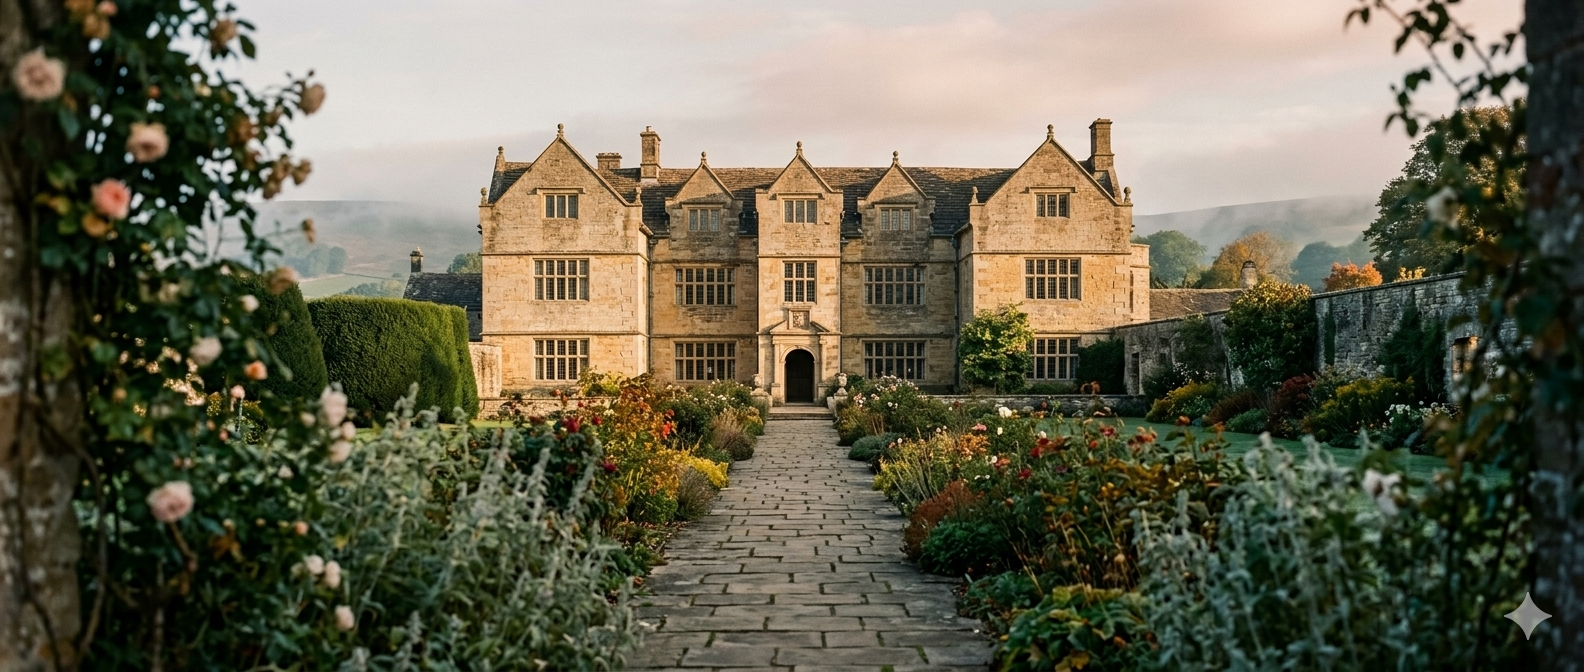
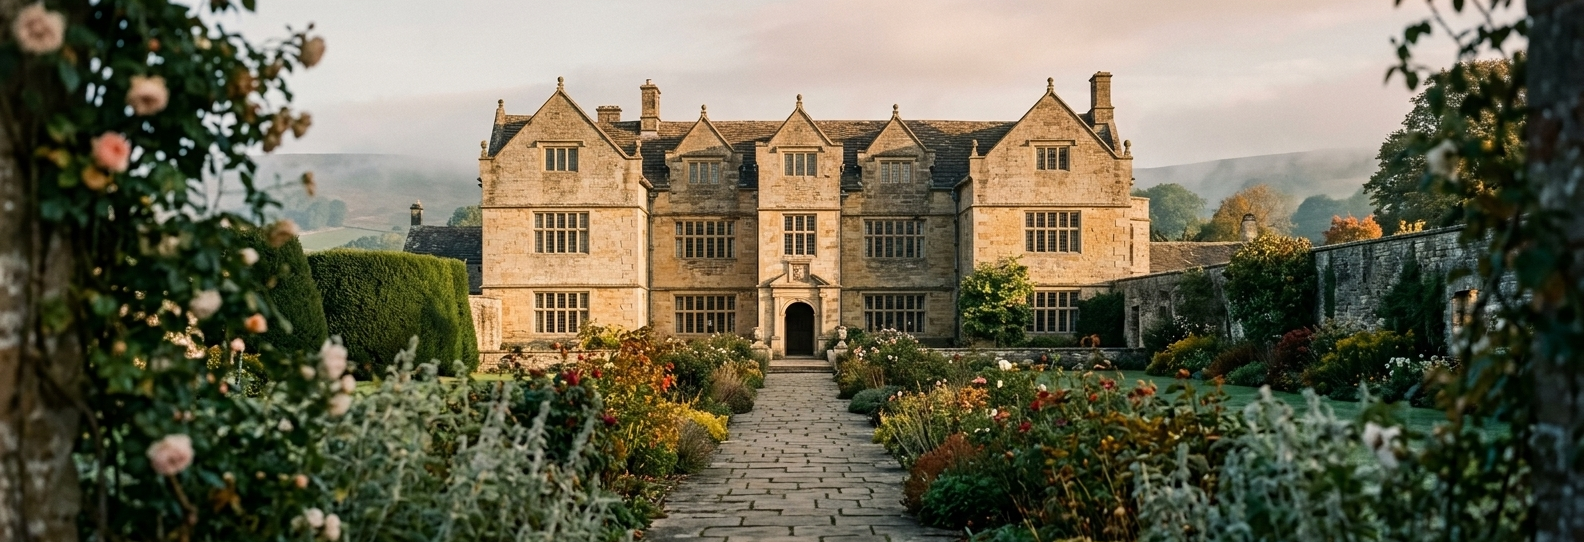
Add couple and barn hall images to home and details pages
Introduce a split layout pairing the welcome note with a portrait of
the couple, add the barn reception image to The Day, and recompress the
Eyam Hall photo.

diff --git a/index.html b/index.html
@@ -76,25 +76,35 @@
       <figcaption class="figure__caption">Eyam Hall &middot; Eyam, Derbyshire</figcaption>
     </figure>
 
-    <!-- Welcome note -->
+    <!-- Welcome note — portrait of the couple beside the welcome copy -->
     <section class="section reveal">
       <div class="container">
-        <div class="note">
-          <span class="eyebrow">Welcome</span>
-          <!-- TODO: replace welcome copy -->
-          <p class="note__lead">
-            We are so delighted to share our day with you.
-          </p>
-          <p>
-            After many happy years together, we can't wait to gather our
-            favourite people at Eyam Hall, in the heart of the Peak District,
-            for an unhurried spring celebration. The pages here hold everything
-            you'll need — the order of the day, how to find us, and a place to
-            let us know you're coming.
-          </p>
-          <div class="hero__actions">
-            <a class="btn" href="details.html">View Details</a>
-            <a class="btn btn--outline" href="rsvp.html">RSVP</a>
+        <div class="split">
+          <figure class="split__figure">
+            <img
+              class="split__img"
+              src="images/couple-at-eyam-hall.png"
+              alt="Rosie and Joe walking arm in arm through the Eyam Hall walled garden toward a rose-covered stone arch."
+              loading="lazy"
+            />
+          </figure>
+          <div class="note">
+            <span class="eyebrow">Welcome</span>
+            <!-- TODO: replace welcome copy -->
+            <p class="note__lead">
+              We are so delighted to share our day with you.
+            </p>
+            <p>
+              After many happy years together, we can't wait to gather our
+              favourite people at Eyam Hall, in the heart of the Peak District,
+              for an unhurried spring celebration. The pages here hold everything
+              you'll need — the order of the day, how to find us, and a place to
+              let us know you're coming.
+            </p>
+            <div class="hero__actions">
+              <a class="btn" href="details.html">View Details</a>
+              <a class="btn btn--outline" href="rsvp.html">RSVP</a>
+            </div>
           </div>
         </div>
       </div>

diff --git a/css/style.css b/css/style.css
@@ -441,6 +441,34 @@ img {
 }
 
 /* --------------------------------------------------------------------------
+   Split — portrait image beside prose (welcome note)
+   -------------------------------------------------------------------------- */
+.split {
+  display: grid;
+  grid-template-columns: 5fr 6fr;   /* portrait slightly narrower than the prose */
+  gap: var(--space-xl);
+  align-items: center;
+  max-width: var(--container-max);
+  margin: 0 auto;
+}
+
+.split__figure {
+  margin: 0;
+}
+
+.split__img {
+  display: block;
+  width: 100%;
+  /* Gentle portrait crop — never square, per the concept. */
+  aspect-ratio: 4 / 5;
+  object-fit: cover;
+  /* Ektar / 35mm colour signature — matches .figure__img. */
+  filter: contrast(1.03) saturate(0.92) sepia(0.06);
+  /* Thin sage hairline frame. */
+  border: 1px solid var(--rule);
+}
+
+/* --------------------------------------------------------------------------
    Page header (interior pages) — left-aligned, like a letter
    -------------------------------------------------------------------------- */
 .page-header {
@@ -702,6 +730,11 @@ img {
   .nav__link.active {
     border-bottom: none;
     background-color: var(--limestone);
+  }
+
+  .split {
+    grid-template-columns: 1fr;
+    gap: var(--space-lg);
   }
 
   .detail {

diff --git a/details.html b/details.html
@@ -99,6 +99,17 @@
       </div>
     </section>
 
+    <!-- Reception image — the barn dressed for the wedding breakfast, letterbox -->
+    <figure class="figure figure--bleed reveal">
+      <img
+        class="figure__img"
+        src="images/barn-hall-banquet.png"
+        alt="The stone barn at Eyam Hall dressed for the wedding breakfast — round tables in white linen beneath beamed ceilings, chandeliers and fairy lights."
+        loading="lazy"
+      />
+      <figcaption class="figure__caption">The Barn &middot; set for the wedding breakfast</figcaption>
+    </figure>
+
     <section class="section section--alt reveal" id="dress-code">
       <div class="container">
         <div class="detail">